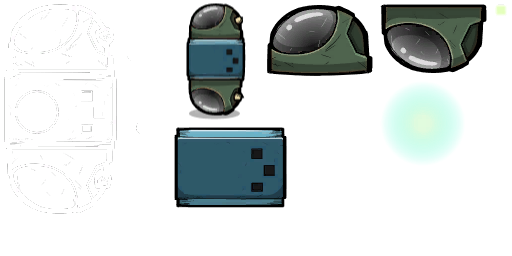
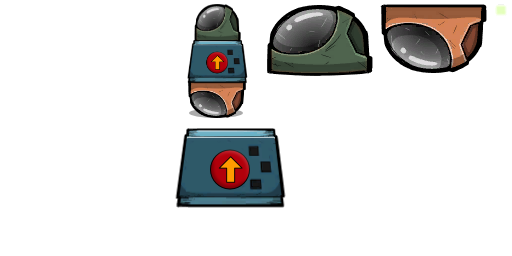
HPA Transfer arm (anim wip), hpa rail valve (anim wip), rail valve anim remade

diff --git a/RonivansLegacy_ChemicalProcessing/Content/Defs/Buildings/HighPressureApplications/HPA_Rails/HPATransferArmConfig.cs b/RonivansLegacy_ChemicalProcessing/Content/Defs/Buildings/HighPressureApplications/HPA_Rails/HPATransferArmConfig.cs
@@ -1,12 +1,84 @@
-using System;
+using RonivansLegacy_ChemicalProcessing.Content.Scripts.Buildings.ConfigInterfaces;
+using RonivansLegacy_ChemicalProcessing.Content.Scripts;
+using System;
 using System.Collections.Generic;
 using System.Linq;
 using System.Text;
 using System.Threading.Tasks;
+using TUNING;
+using UnityEngine;
+using UtilLibs;
 
 namespace RonivansLegacy_ChemicalProcessing.Content.Defs.Buildings.HighPressureApplications.HighCapacityLogisticRails
 {
-    class HPATransferArmConfig
-    {
-    }
+    class HPATransferArmConfig : IBuildingConfig, IHasConfigurableWattage
+	{
+		public static float Wattage = HighPressureConduitRegistration.GetConduitMultiplier(ConduitType.Solid) * 120f;
+
+		public float GetWattage() => Wattage;
+		public void SetWattage(float mass) => Wattage = mass;
+
+		public static float TurnRatePerSecond = 3 * 360;
+		
+
+		public static float StorageCapacity = HighPressureConduitRegistration.GetConduitMultiplier(ConduitType.Solid) * 1000f;
+
+		public static string ID = "HPA_TransferArm";
+
+		public override BuildingDef CreateBuildingDef()
+		{
+			BuildingDef buildingDef = BuildingTemplates.CreateBuildingDef(ID, 3, 1, "logistic_transferArm_kanim", 10, 10f, [400,100], [GameTags.Steel.ToString(), GameTags.Plastic.ToString()], 1600f, BuildLocationRule.Anywhere, BUILDINGS.DECOR.PENALTY.TIER2, NOISE_POLLUTION.NOISY.TIER0, 0.2f);
+			buildingDef.Floodable = false;
+			buildingDef.AudioCategory = "Metal";
+			buildingDef.RequiresPowerInput = true;
+			buildingDef.EnergyConsumptionWhenActive = Wattage;
+			buildingDef.ExhaustKilowattsWhenActive = 0f;
+			buildingDef.SelfHeatKilowattsWhenActive = 0f;
+			buildingDef.LogicInputPorts = LogicOperationalController.CreateSingleInputPortList(new CellOffset(0, 0));
+			buildingDef.PermittedRotations = PermittedRotations.R360;
+			GeneratedBuildings.RegisterWithOverlay(OverlayScreen.SolidConveyorIDs, ID);
+			SoundUtils.CopySoundsToAnim("logistic_transferArm_kanim", "conveyor_transferarm_kanim");
+			return buildingDef;
+		}
+
+		public override void ConfigureBuildingTemplate(GameObject go, Tag prefab_tag)
+		{
+			go.AddOrGet<Operational>();
+			go.AddOrGet<LoopingSounds>();
+		}
+
+		public override void DoPostConfigurePreview(BuildingDef def, GameObject go)
+		{
+			AddVisualizer(go, true);
+		}
+
+		public override void DoPostConfigureUnderConstruction(GameObject go)
+		{
+			AddVisualizer(go, false);
+		}
+
+		public override void DoPostConfigureComplete(GameObject go)
+		{
+			go.AddOrGet<LogicOperationalController>();
+			var capacity = go.AddOrGet<VariableCapacityForTransferArm>();
+			capacity.TargetCarryCapacity = StorageCapacity;
+			capacity.TargetTurnRate = TurnRatePerSecond;
+			var arm = go.AddOrGet<SolidTransferArm>();
+			arm.pickupRange = Config.Instance.HPA_Arm_Range;
+			AddVisualizer(go, false);
+		}
+
+		private static void AddVisualizer(GameObject prefab, bool movable)
+		{
+			int range = Config.Instance.HPA_Arm_Range;
+			RangeVisualizer rangeVisualizer = prefab.AddOrGet<RangeVisualizer>();
+			rangeVisualizer.OriginOffset = new Vector2I(0, 0);
+			rangeVisualizer.RangeMin.x = -range;
+			rangeVisualizer.RangeMin.y = -range;
+			rangeVisualizer.RangeMax.x = range;
+			rangeVisualizer.RangeMax.y = range;
+			rangeVisualizer.BlockingTileVisible = true;
+		}
+
+	}
 }

diff --git a/RonivansLegacy_ChemicalProcessing/Content/Defs/Buildings/HighPressureApplications/HPA_Rails/HPARailValveConfig.cs b/RonivansLegacy_ChemicalProcessing/Content/Defs/Buildings/HighPressureApplications/HPA_Rails/HPARailValveConfig.cs
@@ -1,12 +1,63 @@
-using System;
+using RonivansLegacy_ChemicalProcessing.Content.Scripts;
+using System;
 using System.Collections.Generic;
 using System.Linq;
 using System.Text;
 using System.Threading.Tasks;
+using TUNING;
+using UnityEngine;
+using UtilLibs;
 
 namespace RonivansLegacy_ChemicalProcessing.Content.Defs.Buildings.HighPressureApplications.HighCapacityLogisticRails
 {
-    class HPARailValveConfig
-    {
-    }
+    class HPARailValveConfig : IBuildingConfig
+	{
+		public static string ID = "HPA_SolidRailValve";
+		public override BuildingDef CreateBuildingDef()
+		{
+			float[] quantity1 = [50f, 20f];
+			string[] materials1 = [GameTags.Steel.ToString(), GameTags.Transparent.ToString()];
+			BuildingDef buildingDef = BuildingTemplates.CreateBuildingDef(ID, 1, 2, "logistic_valve_kanim", 100, 50f, quantity1, materials1, 800f, BuildLocationRule.Anywhere, TUNING.BUILDINGS.DECOR.PENALTY.TIER1, NOISE_POLLUTION.NOISY.TIER0);
+			buildingDef.Floodable = false;
+			buildingDef.Overheatable = false;
+			buildingDef.ViewMode = OverlayModes.SolidConveyor.ID;
+			buildingDef.AudioCategory = "HollowMetal";
+			buildingDef.InputConduitType = ConduitType.Solid;
+			buildingDef.OutputConduitType = ConduitType.Solid;
+			buildingDef.UtilityInputOffset = new CellOffset(0, 0);
+			buildingDef.UtilityOutputOffset = new CellOffset(0, 1);
+			buildingDef.PermittedRotations = PermittedRotations.R360;
+			GeneratedBuildings.RegisterWithOverlay(OverlayScreen.SolidConveyorIDs, ID);
+			SoundUtils.CopySoundsToAnim("logistic_rail_kanim", "filter_material_conveyor_kanim");
+			return buildingDef;
+		}
+
+		public override void ConfigureBuildingTemplate(GameObject go, Tag prefab_tag)
+		{
+			Storage storage = BuildingTemplates.CreateDefaultStorage(go, false);
+			storage.showDescriptor = false;
+			storage.storageFilters = null;
+			storage.capacityKg = HighPressureConduitRegistration.SolidCap_HP;
+			storage.SetDefaultStoredItemModifiers(Storage.StandardInsulatedStorage);
+			storage.showCapacityStatusItem = false;
+			storage.showCapacityAsMainStatus = false;
+
+			SolidConduitConsumer conduitConsumer = go.AddOrGet<SolidConduitConsumer>();
+			conduitConsumer.alwaysConsume = true;
+			conduitConsumer.capacityKG = storage.capacityKg;
+
+			ConduitDispenser solidDispenser = go.AddOrGet<ConduitDispenser>();
+			solidDispenser.alwaysDispense = true;
+			solidDispenser.elementFilter = null;
+			//solidDispenser.massDispensed = HighPressureConduitRegistration.SolidCap_Regular;
+		}
+
+		public override void DoPostConfigureComplete(GameObject go)
+		{
+			go.GetComponent<KPrefabID>().AddTag(GameTags.OverlayBehindConduits, false);
+			var requirement = go.AddOrGet<HPA_SolidConduitRequirement>();
+			requirement.RequiresHighPressureInput = true;
+			go.AddOrGet<AIO_DecompressionValve>();
+		}
+	}
 }

diff --git a/RonivansLegacy_ChemicalProcessing/Content/ModDb/BuildingDatabase.cs b/RonivansLegacy_ChemicalProcessing/Content/ModDb/BuildingDatabase.cs
@@ -566,7 +566,7 @@ namespace RonivansLegacy_ChemicalProcessing.Content.ModDb
 
 
 			BuildingManager.CreateEntry<LogisticRailValveConfig>()
-				.AddToCategory(PlanMenuCategory.Shipping, SolidConduitBridgeConfig.ID)
+				.AddToCategory(PlanMenuCategory.Shipping, SolidLogicValveConfig.ID)
 				.AddToTech(Technology.SolidMaterial.SmartStorage)
 				.AddModFrom(SourceModInfo.DupesLogistics);
 
@@ -631,18 +631,35 @@ namespace RonivansLegacy_ChemicalProcessing.Content.ModDb
 				.AddToCategory(PlanMenuCategory.Shipping, SolidConduitConfig.ID)
 				.AddToTech(Technology.SolidMaterial.SolidManagement)
 				.AddModFrom(SourceModInfo.HighPressureApplications);
+
 			BuildingManager.CreateEntry<HPARailConfig>()
 				.AddToCategory(PlanMenuCategory.Shipping, SolidConduitConfig.ID)
 				.AddToTech(Technology.SolidMaterial.SolidManagement)
 				.AddModFrom(SourceModInfo.HighPressureApplications);
+
+
 			BuildingManager.CreateEntry<HPARailBridgeTileConfig>()
 				.AddToCategory(PlanMenuCategory.Shipping, SolidConduitBridgeConfig.ID)
 				.AddToTech(Technology.SolidMaterial.SolidManagement)
 				.AddModFrom(SourceModInfo.HighPressureApplications);
+
 			BuildingManager.CreateEntry<HPARailBridgeConfig>()
 				.AddToCategory(PlanMenuCategory.Shipping, SolidConduitBridgeConfig.ID)
 				.AddToTech(Technology.SolidMaterial.SolidManagement)
 				.AddModFrom(SourceModInfo.HighPressureApplications);
+
+			BuildingManager.CreateEntry<HPATransferArmConfig>()
+				.AddToCategory(PlanMenuCategory.Shipping, SolidTransferArmConfig.ID)
+				.AddToTech(Technology.SolidMaterial.SolidManagement)
+				.AddModFrom(SourceModInfo.HighPressureApplications);
+
+			BuildingManager.CreateEntry<HPARailValveConfig>()
+				.AddToCategory(PlanMenuCategory.Shipping, SolidLogicValveConfig.ID)
+				.AddToTech(Technology.SolidMaterial.SolidManagement)
+				.AddModFrom(SourceModInfo.HighPressureApplications);
+
+
+			
 		}
 
 		private static void RegisterBuildings_DupesRefrigeration()

diff --git a/RonivansLegacy_ChemicalProcessing/Content/Scripts/AIO_DecompressionValve.cs b/RonivansLegacy_ChemicalProcessing/Content/Scripts/AIO_DecompressionValve.cs
@@ -1,0 +1,62 @@
+using System;
+using System.Collections.Generic;
+using System.Linq;
+using System.Text;
+using System.Threading.Tasks;
+using UnityEngine;
+
+namespace RonivansLegacy_ChemicalProcessing.Content.Scripts
+{
+	public class AIO_DecompressionValve : StateMachineComponent<AIO_DecompressionValve.StatesInstance>
+	{
+		[MyCmpReq] Storage storage;
+		public override void OnSpawn()
+		{
+			smi.StartSM();
+		}
+		float lastTimeEmpty = 0f;
+
+		public bool ShouldTurnOff()
+		{
+			if (storage.MassStored() > 0f)
+			{
+				lastTimeEmpty = Time.unscaledDeltaTime;
+			}
+			
+			if (Time.unscaledDeltaTime - lastTimeEmpty > 1.5f)
+			{
+				return true;
+			}
+			return false;
+		}
+
+		public class StatesInstance : GameStateMachine<States, StatesInstance, AIO_DecompressionValve, object>.GameInstance
+		{
+			public StatesInstance(AIO_DecompressionValve master) : base(master)
+			{
+			}
+		}
+
+		public class States : GameStateMachine<States, StatesInstance, AIO_DecompressionValve>
+		{
+			public State TransportingItems;
+			public State TransportingItems_pst;
+			public State Idle;
+
+
+			public override void InitializeStates(out BaseState default_state)
+			{
+				default_state = Idle;
+				Idle.EventTransition(GameHashes.OnStorageChange, TransportingItems, (smi) => smi.master.storage.MassStored() > 0)
+					.PlayAnim("off", KAnim.PlayMode.Once);
+				TransportingItems
+					.PlayAnim("on_flow", KAnim.PlayMode.Loop)
+					.UpdateTransition(TransportingItems_pst, (smi, dt) => smi.master.ShouldTurnOff(), UpdateRate.SIM_1000ms)
+					;
+				TransportingItems_pst
+					.PlayAnim("off_flow", KAnim.PlayMode.Once)
+					.OnAnimQueueComplete(Idle);
+			}
+		}
+	}
+}

diff --git a/RonivansLegacy_ChemicalProcessing/Content/Defs/Buildings/DupesLogistics/LogisticTransferArmConfig.cs b/RonivansLegacy_ChemicalProcessing/Content/Defs/Buildings/DupesLogistics/LogisticTransferArmConfig.cs
@@ -13,7 +13,7 @@ using UtilLibs;
 
 namespace RonivansLegacy_ChemicalProcessing.Content.Defs.Buildings.DupesLogistics
 {
-	public class LogisticTransferArmConfig : IBuildingConfig, IHasConfigurableStorageCapacity, IHasConfigurableWattage
+	public class LogisticTransferArmConfig : IBuildingConfig, IHasConfigurableWattage
 	{
 		public static float Wattage = HighPressureConduitRegistration.GetLogisticConduitMultiplier() * 120f; // 1/2 of regular transfer arm by default
 
@@ -22,8 +22,6 @@ namespace RonivansLegacy_ChemicalProcessing.Content.Defs.Buildings.DupesLogistic
 
 
 		public static float StorageCapacity = HighPressureConduitRegistration.GetLogisticConduitMultiplier() * 1000f; // 1/2 of regular transfer arm carry weight
-		public float GetStorageCapacity() => StorageCapacity;
-		public void SetStorageCapacity(float mass) => StorageCapacity = mass;
 
 		public static string ID = "LogisticTransferArm";
 
@@ -64,6 +62,7 @@ namespace RonivansLegacy_ChemicalProcessing.Content.Defs.Buildings.DupesLogistic
 			go.AddOrGet<LogicOperationalController>();
 			var capacity = go.AddOrGet<VariableCapacityForTransferArm>();
 			capacity.TargetCarryCapacity = StorageCapacity;
+			capacity.TargetTurnRate = HighPressureConduitRegistration.GetLogisticConduitMultiplier() * 360f; // 180 degrees per second, half of the vanilla arm speed
 			var arm = go.AddOrGet<SolidTransferArm>();
 			arm.pickupRange = Config.Instance.Logistic_Arm_Range;
 			AddVisualizer(go, false);

diff --git a/RonivansLegacy_ChemicalProcessing/STRINGS.cs b/RonivansLegacy_ChemicalProcessing/STRINGS.cs
@@ -1401,6 +1401,26 @@ namespace RonivansLegacy_ChemicalProcessing
 					".";
 				}
 
+				public class HPA_TRANSFERARM
+				{
+					public static LocString NAME = FormatAsLink("Heavy-Duty Auto-Sweeper", nameof(HPA_TRANSFERARM));
+					public static LocString DESC = "An auto-sweeper's range can be viewed at any time by clicking on the building.";
+					public static LocString EFFECT = string.Concat(
+						[
+							"Automates ",
+							FormatAsLink("Sweeping", "CHORES"),
+							" and ",
+							FormatAsLink("Supplying", "CHORES"),
+							" errands by sucking up all nearby ",
+							FormatAsLink("Debris", "DECOR"),
+							".\n\nMaterials are automatically delivered to any ",
+							FormatAsLink("Heavy-Duty Loader", "HPA_INBOX"),
+							", ",
+							FormatAsLink("Heavy-Duty Receptacle", "HPA_OUTBOX"),
+							", storage, or buildings within range.\n\nComes with increased range, capacity and rotation speed."
+						]);
+				}
+
 				#endregion
 				#region DupesRefrigeration
 

diff --git a/RonivansLegacy_ChemicalProcessing/Content/Scripts/VariableCapacityForTransferArm.cs b/RonivansLegacy_ChemicalProcessing/Content/Scripts/VariableCapacityForTransferArm.cs
@@ -11,9 +11,15 @@ namespace RonivansLegacy_ChemicalProcessing.Content.Scripts
 	{
 		[SerializeField] public float TargetCarryCapacity = 1000; //1000 is vanilla arm default
 
+		[SerializeField] public float TargetTurnRate = 360; //360 is vanilla arm default, rotation speed per second
+
 		public override void OnPrefabInit()
 		{
-			gameObject.GetComponent< SolidTransferArm >().max_carry_weight = TargetCarryCapacity;
+			var sweeper = gameObject.GetComponent<SolidTransferArm>();
+			sweeper.max_carry_weight = TargetCarryCapacity;
+			sweeper.turn_rate = TargetTurnRate;
+
+			gameObject.GetComponent<KBatchedAnimController>().PlaySpeedMultiplier = TargetTurnRate / 360f; //Adjust the animation speed to match the turn rate
 			base.OnPrefabInit();
 		}
 	}

diff --git a/RonivansLegacy_ChemicalProcessing/Content/Defs/Buildings/DupesLogistics/LogisticRailValveConfig.cs b/RonivansLegacy_ChemicalProcessing/Content/Defs/Buildings/DupesLogistics/LogisticRailValveConfig.cs
@@ -50,15 +50,16 @@ namespace RonivansLegacy_ChemicalProcessing.Content.Defs.Buildings.DupesLogistic
 			solidDispenser.alwaysDispense = true;
 			solidDispenser.elementFilter = null;
 			solidDispenser.massDispensed = Config.Instance.Logistic_Rail_Capacity;
+
 		}
 
 		public override void DoPostConfigureComplete(GameObject go)
 		{
-			go.AddOrGetDef<StorageController.Def>();
 			go.GetComponent<KPrefabID>().AddTag(GameTags.OverlayBehindConduits, false);
 			var requirement = go.AddOrGet<HPA_SolidConduitRequirement>();
 			requirement.RequiresHighPressureOutput = true;
 			requirement.IsLogisticRail = true;
+			go.AddOrGet<AIO_DecompressionValve>();
 		}
 	}
 }

diff --git a/RonivansLegacy_ChemicalProcessing/Config.cs b/RonivansLegacy_ChemicalProcessing/Config.cs
@@ -107,6 +107,6 @@ namespace RonivansLegacy_ChemicalProcessing
 
 		[Option("STRINGS.RONIVAN_AIO_MODCONFIG.HP_SOLID_ARMRANGE.NAME", "STRINGS.RONIVAN_AIO_MODCONFIG.HP_SOLID_CAPACITY.TOOLTIP", "STRINGS.AIO_MODSOURCE.HIGHPRESSUREAPPLICATIONS")]
 		[Limit(6, 24)]
-		public int HPA_Arm_Range { get; set; } = 10;
+		public int HPA_Arm_Range { get; set; } = 12;
 	}
 }
